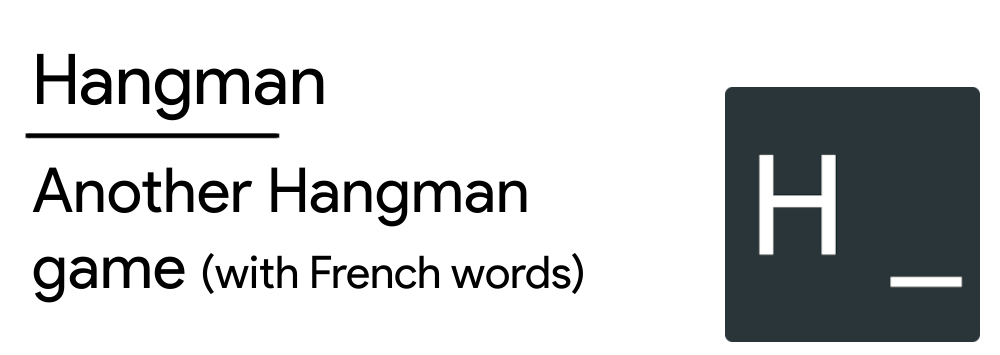
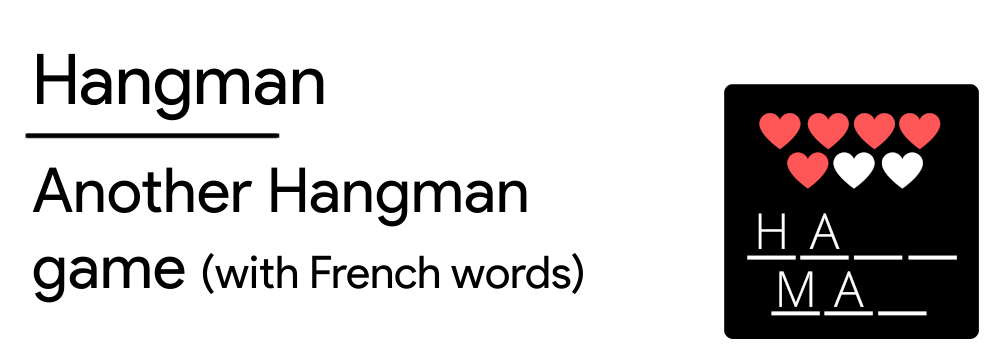
1.1 : see changelog

Changed region(s): [[0.713, 0.2169, 0.992, 0.9606]]

diff --git a/assets/js/main.min.js b/assets/js/main.min.js
@@ -1,1 +1,1 @@
-const WORDS=["AEROPORT","AFFAIRE","ALBUM","ALPHABET","AMENER","AMPOULE","ANCIEN","ANORAK","ANTENNE","APPAREIL","APPORTER","APPUYER","APRES","ARC","ARMOIRE","ARRET","ARRIERE","ARRIVER","ARROSER","ASSIETTE","ASSIS","ATTACHER","ATTENDRE","ATTENTION","ATTERRIR","ATTRAPER","AU","AUTANT","AUTO","AUTOMOBILISTE","AUTORADIO","AUTOUR","AVANCER","AVANT","AVEC","AVION","BAGAGE","BAGUETTE","BAIGNER","BÂILLER","BALLE","BANC","BARBE","BARBOTER","BARQUE","BARRE","BARREAU","BAS","BATEAU","BEAUCOUP","BIBLIOTHEQUE","BLANC","BLEU","BOIS","BOITE","BONDIR","BONNET","BORD","BOSSER","BOTTE","BOUCHER","BOUCHON","BOUDER","BOUGER","BOUSCULER","BOUT","BOUTEILLE","BOUTON","BRAS","BRETELLE","BRICOLAGE","BRUIT","BRUN","BULLES","BUREAU","CABANE","CABINET","CAGOULE","CAHIER","CAISSE","CALME","CAMARADE","CAMESCOPE","CAMION","CANARD","CARNET","CARREAU","CARTABLE","CARTON","CASIER","CASQUE","CASQUETTE","CASSE","CASSER","CASSEROLE","CASSETTE","CATALOGUE","CEDE","CEDEROM","CEINTURE","CERCEAU","CHAINE","CHAISE","CHAISES","CHANSON","CHAPEAU","CHARGER","CHAT","CHAUD","CHAUSSETTE","CHAUSSON","CHAUSSURE","CHEMISE","CHERCHER","CHEVILLE","CHIFFRE","CHOISIR","CHOSE","CHUCHOTER","CHUTE","CIGARETTE","CINQ","CISEAUX","CLASSE","CLAVIER","CLE","CLOU","COIN","COL","COLERE","COLLANT","COLLE","COLLER","COLORIAGE","COLORIER","COMMENCER","COMPARER","COMPTER","CONDUIRE","CONSTRUIRE","CONTE","CONTINUER","CONTRAIRE","CONTRE","COPAIN","COPIER","COQUILLAGE","COQUILLETTE","COQUIN","CORDE","CORPS","COTE","COU","COUCHE","COUDE","COUDRE","COULEUR","COULOIR","COUPER","COURIR","COURONNE","COURT","CRAIE","CRAVATE","CROCHET","CUBE","CUILLERE","CUISSE","CULOTTE","CURIEUX","CUVETTE","DAME","DANGER","DANS","DANSER","DE","DEBORDER","DEBOUT","DECHIRER","DECOLLER","DECORER","DECOUPAGE","DECOUPER","DEDANS","DEFENDRE","DEHORS","DELTAPLANE","DEMANDER","DEMARRER","DEMOLIR","DEPASSER","DERNIER","DERRIERE","DESCENDRE","DESOBEIR","DESSIN","DESSINER","DETRUIRE","DEUX","DEUXIEME","DEVANT","DICTIONNAIRE","DIFFERENCE","DIFFERENT","DIFFICILE","DIRE","DIRECTEUR","DIRECTRICE","DISCUTER","DISPARAITRE","DISTRIBUER","DIX","DOIGT","DOIGTS","DOMINO","DONNER","DORMIR","DOS","DOSSIER","DOUCHE","DOUCHER","DOUX","DROIT","DU","DUR","EAU","ECARTER","ECHANGER","ECHARPE","ECHASSES","ECHELLE","ECLABOUSSER","ECLAIRER","ECOLE","ECOUTER","ECRAN","ECRASER","ECRIRE","ECRITURE","EFFACER","EFFORT","ELASTIQUE","ELECTRICITE","ELEVE","EMMENER","EMPORTER","ENCORE","ENERVE","ENFANT","ENFILER","ENFONCER","ENGIN","ENLEVER","ENTENDRE","ENTONNOIR","ENTOURER","ENTREE","ENTRER","ENVELOPPE","ENVOYER","EPAIS","EPAULE","EPEE","EQUIPE","ESCABEAU","ESCALADER","ESCALIER","ESCARGOT","ESCARPIN","ESSUYER","ETAGERE","ETANG","ETIQUETTE","ETROIT","ETUDE","ETUDIER","EXPLIQUER","EXTERIEUR","FABRIQUER","FACILE","FAIRE","FATIGUE","FAUTE","FAUTEUIL","FEE","FENETRE","FERMER","FESSE","FEU","FEUILLE","FEUTRE","FICELLE","FIL","FILET","FILLE","FILM","FINIR","FLECHE","FLEUR","FLOTTER","FOIS","FONCE","FOND","FOOTBALL","FORT","FOUILLER","FRAPPER","FREIN","FROID","FUSEE","FUSIL","GAGNER","GANT","GARAGE","GARÇON","GARDER","GARDIEN","GARE","GAUCHE","GENER","GENOU","GENTIL","GLISSER","GOLF","GOMME","GONFLER","GOUTER","GOUTTES","GRAND","GRIMPER","GRIS","GRONDER","GROS","GROUPE","GRUE","GYMNASTIQUE","HABIT","HANCHE","HANDICAPE","HAUT","HELICOPTERE","HEXAGONE","HISTOIRE","HORLOGE","HUIT","HUMIDE","IDEE","ILE","IMAGE","IMITER","IMMEUBLE","IMMOBILE","INONDER","INSEPARABLE","INSTRUMENT","INTERESSANT","INTERIEUR","INTRUS","JALOUX","JAMBES","JAUNE","JEAN","JEU","JOLI","JOUER","JOUET","JUPE","LAC","LACER","LACET","LAINE","LAISSER","LARGE","LAVABO","LAVER","LECTURE","LETTRE","LIERRE","LIGNE","LINGE","LIRE","LISSE","LISTE","LIT","LITRE","LIVRE","LOIN","LONG","LUMIERE","LUNETTES","MADAME","MAGAZINE","MAGICIEN","MAGIE","MAGNETOSCOPE","MAILLOT","MAIN","MAINS","MAISON","MAITRE","MAITRESSE","MAL","MALADROIT","MANCHE","MANQUER","MANTEAU","MARCHE","MARIONNETTE","MARTEAU","MATELAS","MATERNELLE","MELANGER","MEME","MENSONGE","MESURER","METAL","METRE","METTRE","MEUBLE","MICRO","MIEUX","MILIEU","MINE","MODELE","MOINS","MONTAGNE","MONTER","MONTRER","MORCEAU","MOT","MOTEUR","MOTO","MOUCHOIR","MOUFLE","MOUILLE","MOUILLER","MOULIN","MOUSSE","MOYEN","MUET","MULTICOLORE","MUR","MUSCLE","MUSIQUE","NAGER","NENUPHAR","NEUF","NŒUD","NOIR","NOM","NOMBRE","NOUVEAU","NU","NUMERO","OBEIR","OBJET","OBLIGER","ONGLE","ORCHESTRE","ORDINATEUR","ORDRE","OURS","OUTIL","OUVRIR","PAGE","PAIRE","PANNE","PANTALON","PAPIER","PARACHUTE","PARCOURS","PAREIL","PARKING","PARLER","PARTAGER","PARTIR","PAS","PASSERELLE","PATAUGER","PEDALO","PEINDRE","PEINTURE","PELUCHE","PENTE","PERCER","PERDRE","PERLE","PERSONNE","PETIT","PEU","PEUR","PHOTO","PIED","PIEDS","PILOTE","PINCEAU","PION","PLACARD","PLAFOND","PLAGE","PLANCHE","PLÂTRE","PLEUVOIR","PLI","PLIAGE","PLIER","PLONGEOIR","PLONGER","PLUIE","PLUS","PNEU","POCHE","POIGNET","POING","POINT","POINTE","POINTU","POISSON","POLI","POMPIERS","PONT","PORTE","PORTEMANTEAU","PORTER","POSER","POSTER","POT","POUBELLE","POUCE","POUSSER","POUVOIR","PREMIER","PRENDRE","PRENOM","PREPARER","PRES","PRESENT","PRESQUE","PRESSER","PRETER","PRINCE","PRISES","PRIVER","PROMETTRE","PROPRE","PUNAISE","PUNIR","PUZZLE","PYJAMA","PYRAMIDE","QUAI","QUATRE","QUESTION","RACONTER","RADIATEUR","RADIO","RAME","RAMPE","RAMPER","RANGER","RATER","RAYURE","RECEVOIR","RECITER","RECOMMENCER","RECREATION","RECULER","REFUSER","REGARDER","REINE","REMETTRE","REMPLACER","REMPLIR","RENTREE","RENTRER","RENVERSER","REPARER","REPETER","REPONDRE","RESPIRER","RESSEMBLER","RESTER","RETARD","REUSSIR","REVENIR","RIDEAU","ROBE","ROBINET","ROI","ROND","ROUE","ROUGE","ROULADE","ROULER","ROUX","RUBAN","RUGUEUX","SAGE","SALADIER","SALE","SALLE","SAUT","SAUTER","SAVON","SCIE","SEAU","SEC","SECHER","SEMELLE","SENS","SENTIR","SEPARER","SEPT","SERIEUX","SERPENT","SERRE","SERRER","SERRURE","SERVIETTE","SERVIR","SEUL","SIEGE","SIESTE","SILENCE","SIX","SOL","SOLDAT","SOLIDE","SOMMEIL","SONNER","SONNETTE","SORCIERE","SORTIE","SORTIR","SOUFFLER","SOULEVER","SOULIGNER","SOUPLE","SOURD","SOURIRE","SOUS","SPAGHETTI","SPORT","STYLO","SUIVANT","SUIVRE","SUR","SURFEUR","TABLE","TABLEAU","TABLIER","TABOURET","TACHE","TAILLE","TAILLER","TALON","TAMBOUR","TAMPON","TAPER","TAPIS","TARD","TASSE","TELECOMMANDE","TELEPHONE","TELEVISION","TENDRE","TENIR","TENNIS","TERMINER","TETE","TIRER","TIROIR","TISSU","TITRE","TOBOGGAN","TOILETTE","TOMBER","TORDU","TOT","TOUCHER","TOUR","TOURNER","TOURNEVIS","TRAIN","TRAIT","TRAMPOLINE","TRANQUILLE","TRANSPARENT","TRANSPIRER","TRANSPORTER","TRAVAIL","TRAVAILLER","TRAVERSER","TREMPER","TRICHER","TRICOT","TRIER","TROIS","TROISIEME","TROMPETTE","TROP","TROUER","TROUS","TROUSSE","TUNNEL","UN","UNIFORME","USE","VACHE","VALISE","VASE","VEHICULE","VENIR","VENTRE","VERRE","VERS","VERSER","VERT","VESTE","VETEMENT","VIDER","VIRAGE","VIS","VITE","VITESSE","VITRE","VOITURE","VOIX","VOLER","VOULOIR","VOYAGE","WAGON","XYLOPHONE","ZERO","ZIGZAG"];let _wordData,_wordString,_wordArray,_error=0,_maxError=7,_errorDisplay="";function startGame(){_wordData=chooseWord(),_wordString=_wordData[0],_wordArray=_wordData[1],get(".buttonList")[0].style.display="none",get("#play").style.display="none",get("#results").classList.add("resultsInGame");for(let E=0;E<_maxError;E++)_errorDisplay+="❤";generateKeyboard(),updateGame(),get("#footer").innerHTML=FOOTER_INGAME}function chooseWord(){let E=rand(0,WORDS.length);for(_wordString=WORDS[E],_wordArray=[],i=0;i<_wordString.length;i++)_wordArray[i]="_";return[_wordString,_wordArray]}function play(E){let R=[];for(i=0;i<_wordString.length;i++)_wordString[i]==E&&R.push(i);if(0!=R.length){for(i=0;i<R.length;i++)_wordArray[R[i]]=E;get("#"+E).style.background=getVariableCSS("correct")}else _error++,_errorDisplay=_errorDisplay.substring(0,_errorDisplay.length-1).trim(),navigator.vibrate("300"),get("#"+E).style.background=getVariableCSS("incorrect");get("#"+E).disabled=!0,updateGame()}function updateGame(){let E="";for(i=0;i<_wordArray.length;i++)E+=_wordArray[i]+" ";get("#guess").innerHTML=E.trim(),get("#results").innerHTML=_errorDisplay,_error==_maxError?(get("#results").style.display="none",get("#guess").innerHTML=CONTENT.lost+_wordString,get("#keyboard").style.display="none",get(".buttonList")[0].style.display="flex",get("#reload").style.display="block"):-1==_wordArray.indexOf("_")&&(get("#results").style.display="none",get("#guess").innerHTML="<p>"+CONTENT.win_part1+_error+CONTENT.win_part2+"</p>",get("#keyboard").style.display="none",get(".buttonList")[0].style.display="flex",get("#reload").style.display="block")}function generateKeyboard(){"ABCDEFGHIJKLMNOPQRSTUVWXYZ".split("").forEach(E=>{const R=document.createElement("button");R.innerHTML=E,R.id=E,R.classList.add("keyboardButton"),R.classList.add("gameButton"),R.addEventListener("click",()=>{play(E)}),get("#keyboard").appendChild(R)})}get("#play").addEventListener("click",startGame),get("#reload").addEventListener("click",()=>{location.reload()});
+const HEALTH_ICON="❤",MAX_ERRORS=7,WORDS=["AEROPORT","AFFAIRE","ALBUM","ALPHABET","AMENER","AMPOULE","ANCIEN","ANORAK","ANTENNE","APPAREIL","APPORTER","APPUYER","APRES","ARC","ARMOIRE","ARRET","ARRIERE","ARRIVER","ARROSER","ASSIETTE","ASSIS","ATTACHER","ATTENDRE","ATTENTION","ATTERRIR","ATTRAPER","AU","AUTANT","AUTO","AUTOMOBILISTE","AUTORADIO","AUTOUR","AVANCER","AVANT","AVEC","AVION","BAGAGE","BAGUETTE","BAIGNER","BÂILLER","BALLE","BANC","BARBE","BARBOTER","BARQUE","BARRE","BARREAU","BAS","BATEAU","BEAUCOUP","BIBLIOTHEQUE","BLANC","BLEU","BOIS","BOITE","BONDIR","BONNET","BORD","BOSSER","BOTTE","BOUCHER","BOUCHON","BOUDER","BOUGER","BOUSCULER","BOUT","BOUTEILLE","BOUTON","BRAS","BRETELLE","BRICOLAGE","BRUIT","BRUN","BULLES","BUREAU","CABANE","CABINET","CAGOULE","CAHIER","CAISSE","CALME","CAMARADE","CAMESCOPE","CAMION","CANARD","CARNET","CARREAU","CARTABLE","CARTON","CASIER","CASQUE","CASQUETTE","CASSE","CASSER","CASSEROLE","CASSETTE","CATALOGUE","CEDE","CEDEROM","CEINTURE","CERCEAU","CHAINE","CHAISE","CHAISES","CHANSON","CHAPEAU","CHARGER","CHAT","CHAUD","CHAUSSETTE","CHAUSSON","CHAUSSURE","CHEMISE","CHERCHER","CHEVILLE","CHIFFRE","CHOISIR","CHOSE","CHUCHOTER","CHUTE","CIGARETTE","CINQ","CISEAUX","CLASSE","CLAVIER","CLE","CLOU","COIN","COL","COLERE","COLLANT","COLLE","COLLER","COLORIAGE","COLORIER","COMMENCER","COMPARER","COMPTER","CONDUIRE","CONSTRUIRE","CONTE","CONTINUER","CONTRAIRE","CONTRE","COPAIN","COPIER","COQUILLAGE","COQUILLETTE","COQUIN","CORDE","CORPS","COTE","COU","COUCHE","COUDE","COUDRE","COULEUR","COULOIR","COUPER","COURIR","COURONNE","COURT","CRAIE","CRAVATE","CROCHET","CUBE","CUILLERE","CUISSE","CULOTTE","CURIEUX","CUVETTE","DAME","DANGER","DANS","DANSER","DE","DEBORDER","DEBOUT","DECHIRER","DECOLLER","DECORER","DECOUPAGE","DECOUPER","DEDANS","DEFENDRE","DEHORS","DELTAPLANE","DEMANDER","DEMARRER","DEMOLIR","DEPASSER","DERNIER","DERRIERE","DESCENDRE","DESOBEIR","DESSIN","DESSINER","DETRUIRE","DEUX","DEUXIEME","DEVANT","DICTIONNAIRE","DIFFERENCE","DIFFERENT","DIFFICILE","DIRE","DIRECTEUR","DIRECTRICE","DISCUTER","DISPARAITRE","DISTRIBUER","DIX","DOIGT","DOIGTS","DOMINO","DONNER","DORMIR","DOS","DOSSIER","DOUCHE","DOUCHER","DOUX","DROIT","DU","DUR","EAU","ECARTER","ECHANGER","ECHARPE","ECHASSES","ECHELLE","ECLABOUSSER","ECLAIRER","ECOLE","ECOUTER","ECRAN","ECRASER","ECRIRE","ECRITURE","EFFACER","EFFORT","ELASTIQUE","ELECTRICITE","ELEVE","EMMENER","EMPORTER","ENCORE","ENERVE","ENFANT","ENFILER","ENFONCER","ENGIN","ENLEVER","ENTENDRE","ENTONNOIR","ENTOURER","ENTREE","ENTRER","ENVELOPPE","ENVOYER","EPAIS","EPAULE","EPEE","EQUIPE","ESCABEAU","ESCALADER","ESCALIER","ESCARGOT","ESCARPIN","ESSUYER","ETAGERE","ETANG","ETIQUETTE","ETROIT","ETUDE","ETUDIER","EXPLIQUER","EXTERIEUR","FABRIQUER","FACILE","FAIRE","FATIGUE","FAUTE","FAUTEUIL","FEE","FENETRE","FERMER","FESSE","FEU","FEUILLE","FEUTRE","FICELLE","FIL","FILET","FILLE","FILM","FINIR","FLECHE","FLEUR","FLOTTER","FOIS","FONCE","FOND","FOOTBALL","FORT","FOUILLER","FRAPPER","FREIN","FROID","FUSEE","FUSIL","GAGNER","GANT","GARAGE","GARÇON","GARDER","GARDIEN","GARE","GAUCHE","GENER","GENOU","GENTIL","GLISSER","GOLF","GOMME","GONFLER","GOUTER","GOUTTES","GRAND","GRIMPER","GRIS","GRONDER","GROS","GROUPE","GRUE","GYMNASTIQUE","HABIT","HANCHE","HANDICAPE","HAUT","HELICOPTERE","HEXAGONE","HISTOIRE","HORLOGE","HUIT","HUMIDE","IDEE","ILE","IMAGE","IMITER","IMMEUBLE","IMMOBILE","INONDER","INSEPARABLE","INSTRUMENT","INTERESSANT","INTERIEUR","INTRUS","JALOUX","JAMBES","JAUNE","JEAN","JEU","JOLI","JOUER","JOUET","JUPE","LAC","LACER","LACET","LAINE","LAISSER","LARGE","LAVABO","LAVER","LECTURE","LETTRE","LIERRE","LIGNE","LINGE","LIRE","LISSE","LISTE","LIT","LITRE","LIVRE","LOIN","LONG","LUMIERE","LUNETTES","MADAME","MAGAZINE","MAGICIEN","MAGIE","MAGNETOSCOPE","MAILLOT","MAIN","MAINS","MAISON","MAITRE","MAITRESSE","MAL","MALADROIT","MANCHE","MANQUER","MANTEAU","MARCHE","MARIONNETTE","MARTEAU","MATELAS","MATERNELLE","MELANGER","MEME","MENSONGE","MESURER","METAL","METRE","METTRE","MEUBLE","MICRO","MIEUX","MILIEU","MINE","MODELE","MOINS","MONTAGNE","MONTER","MONTRER","MORCEAU","MOT","MOTEUR","MOTO","MOUCHOIR","MOUFLE","MOUILLE","MOUILLER","MOULIN","MOUSSE","MOYEN","MUET","MULTICOLORE","MUR","MUSCLE","MUSIQUE","NAGER","NENUPHAR","NEUF","NŒUD","NOIR","NOM","NOMBRE","NOUVEAU","NU","NUMERO","OBEIR","OBJET","OBLIGER","ONGLE","ORCHESTRE","ORDINATEUR","ORDRE","OURS","OUTIL","OUVRIR","PAGE","PAIRE","PANNE","PANTALON","PAPIER","PARACHUTE","PARCOURS","PAREIL","PARKING","PARLER","PARTAGER","PARTIR","PAS","PASSERELLE","PATAUGER","PEDALO","PEINDRE","PEINTURE","PELUCHE","PENTE","PERCER","PERDRE","PERLE","PERSONNE","PETIT","PEU","PEUR","PHOTO","PIED","PIEDS","PILOTE","PINCEAU","PION","PLACARD","PLAFOND","PLAGE","PLANCHE","PLÂTRE","PLEUVOIR","PLI","PLIAGE","PLIER","PLONGEOIR","PLONGER","PLUIE","PLUS","PNEU","POCHE","POIGNET","POING","POINT","POINTE","POINTU","POISSON","POLI","POMPIERS","PONT","PORTE","PORTEMANTEAU","PORTER","POSER","POSTER","POT","POUBELLE","POUCE","POUSSER","POUVOIR","PREMIER","PRENDRE","PRENOM","PREPARER","PRES","PRESENT","PRESQUE","PRESSER","PRETER","PRINCE","PRISES","PRIVER","PROMETTRE","PROPRE","PUNAISE","PUNIR","PUZZLE","PYJAMA","PYRAMIDE","QUAI","QUATRE","QUESTION","RACONTER","RADIATEUR","RADIO","RAME","RAMPE","RAMPER","RANGER","RATER","RAYURE","RECEVOIR","RECITER","RECOMMENCER","RECREATION","RECULER","REFUSER","REGARDER","REINE","REMETTRE","REMPLACER","REMPLIR","RENTREE","RENTRER","RENVERSER","REPARER","REPETER","REPONDRE","RESPIRER","RESSEMBLER","RESTER","RETARD","REUSSIR","REVENIR","RIDEAU","ROBE","ROBINET","ROI","ROND","ROUE","ROUGE","ROULADE","ROULER","ROUX","RUBAN","RUGUEUX","SAGE","SALADIER","SALE","SALLE","SAUT","SAUTER","SAVON","SCIE","SEAU","SEC","SECHER","SEMELLE","SENS","SENTIR","SEPARER","SEPT","SERIEUX","SERPENT","SERRE","SERRER","SERRURE","SERVIETTE","SERVIR","SEUL","SIEGE","SIESTE","SILENCE","SIX","SOL","SOLDAT","SOLIDE","SOMMEIL","SONNER","SONNETTE","SORCIERE","SORTIE","SORTIR","SOUFFLER","SOULEVER","SOULIGNER","SOUPLE","SOURD","SOURIRE","SOUS","SPAGHETTI","SPORT","STYLO","SUIVANT","SUIVRE","SUR","SURFEUR","TABLE","TABLEAU","TABLIER","TABOURET","TACHE","TAILLE","TAILLER","TALON","TAMBOUR","TAMPON","TAPER","TAPIS","TARD","TASSE","TELECOMMANDE","TELEPHONE","TELEVISION","TENDRE","TENIR","TENNIS","TERMINER","TETE","TIRER","TIROIR","TISSU","TITRE","TOBOGGAN","TOILETTE","TOMBER","TORDU","TOT","TOUCHER","TOUR","TOURNER","TOURNEVIS","TRAIN","TRAIT","TRAMPOLINE","TRANQUILLE","TRANSPARENT","TRANSPIRER","TRANSPORTER","TRAVAIL","TRAVAILLER","TRAVERSER","TREMPER","TRICHER","TRICOT","TRIER","TROIS","TROISIEME","TROMPETTE","TROP","TROUER","TROUS","TROUSSE","TUNNEL","UN","UNIFORME","USE","VACHE","VALISE","VASE","VEHICULE","VENIR","VENTRE","VERRE","VERS","VERSER","VERT","VESTE","VETEMENT","VIDER","VIRAGE","VIS","VITE","VITESSE","VITRE","VOITURE","VOIX","VOLER","VOULOIR","VOYAGE","WAGON","XYLOPHONE","ZERO","ZIGZAG"];let _wordData,_wordString,_wordArray,_error=0,_errorDisplay="";function startGame(){_wordData=chooseWord(),_wordString=_wordData[0],_wordArray=_wordData[1],get(".buttonList")[0].style.display="none",get("#play").style.display="none";for(let E=0;E<MAX_ERRORS;E++)_errorDisplay+=HEALTH_ICON;get("#titleScreen").style.display="none",get("#board").style.display="flex",get("#footer").innerHTML=FOOTER_INGAME,generateKeyboard(),updateGame()}function chooseWord(){let E=rand(0,WORDS.length);for(_wordString=WORDS[E],_wordArray=[],i=0;i<_wordString.length;i++)_wordArray[i]="_";return[_wordString,_wordArray]}function play(E){let R=[];for(i=0;i<_wordString.length;i++)_wordString[i]==E&&R.push(i);if(0!=R.length){for(i=0;i<R.length;i++)_wordArray[R[i]]=E;get("#"+E).style.background=getVariableCSS("correct")}else _error++,_errorDisplay=_errorDisplay.substring(0,_errorDisplay.length-1).trim(),get("#"+E).style.background=getVariableCSS("incorrect");get("#"+E).disabled=!0,updateGame()}function updateGame(){let E="";for(i=0;i<_wordArray.length;i++)E+=_wordArray[i]+" ";get("#wordToGuess").innerHTML=E.trim(),get("#healthbar").innerHTML=_errorDisplay,_error===MAX_ERRORS?endGame("lose"):-1==_wordArray.indexOf("_")&&endGame("win")}function endGame(E){get("#board").style.display="none",get(".buttonList")[0].style.display="flex",get("#reload").style.display="block",get("#gameOver").style.display="flex","lose"===E&&(get("#gameOver").innerHTML="<p>"+CONTENT.lost+_wordString+"</p>"),"win"===E&&(get("#gameOver").innerHTML="<p>"+CONTENT.win_part1+_error+CONTENT.win_part2+"</p>")}function generateKeyboard(){"ABCDEFGHIJKLMNOPQRSTUVWXYZ".split("").forEach(E=>{const R=document.createElement("button");R.innerHTML=E,R.id=E,R.classList.add("keyboardButton"),R.classList.add("gameButton"),R.addEventListener("click",()=>{play(E)}),get("#keyboard").appendChild(R)})}get("#play").addEventListener("click",startGame),get("#reload").addEventListener("click",()=>{location.reload()});

diff --git a/assets/js/main.js b/assets/js/main.js
@@ -1,6 +1,8 @@
 // =================================================
 // ============ SETTINGS 
 
+const HEALTH_ICON = "❤";
+const MAX_ERRORS = 7;
 const WORDS = [
     "AEROPORT", "AFFAIRE", "ALBUM", "ALPHABET", "AMENER", "AMPOULE", "ANCIEN", "ANORAK", "ANTENNE", "APPAREIL", "APPORTER", "APPUYER", "APRES", "ARC", "ARMOIRE", "ARRET", "ARRIERE", "ARRIVER", "ARROSER", "ASSIETTE", "ASSIS", "ATTACHER", "ATTENDRE", "ATTENTION", "ATTERRIR", "ATTRAPER", "AU", "AUTANT", "AUTO", "AUTOMOBILISTE", "AUTORADIO", "AUTOUR", "AVANCER", "AVANT", "AVEC", "AVION", 
     "BAGAGE", "BAGUETTE", "BAIGNER", "BÂILLER", "BALLE", "BANC", "BARBE", "BARBOTER", "BARQUE", "BARRE", "BARREAU", "BAS", "BATEAU", "BEAUCOUP", "BIBLIOTHEQUE", "BLANC", "BLEU", "BOIS", "BOITE", "BONDIR", "BONNET", "BORD", "BOSSER", "BOTTE", "BOUCHER", "BOUCHON", "BOUDER", "BOUGER", "BOUSCULER", "BOUT", "BOUTEILLE", "BOUTON", "BRAS", "BRETELLE", "BRICOLAGE", "BRUIT", "BRUN", "BULLES", "BUREAU", 
@@ -26,7 +28,10 @@ const WORDS = [
     "WAGON",
     "XYLOPHONE", 
     "ZERO", "ZIGZAG"];
-let _error = 0, _maxError = 7,  _errorDisplay = "", _wordData, _wordString, _wordArray;
+
+let _error = 0,
+    _errorDisplay = "",
+    _wordData, _wordString, _wordArray;
 
 // =================================================
 // ============ MAIN 
@@ -53,15 +58,18 @@ get("#reload").addEventListener("click", () => { location.reload(); });
     get("#play").style.display = "none";
 
     // Generate the "health bar"
-    get("#results").classList.add("resultsInGame");
-    for (let i = 0; i < _maxError; i++) {
-        _errorDisplay += "❤";
+    for (let i = 0; i < MAX_ERRORS; i++) {
+        _errorDisplay += HEALTH_ICON;
     }
 
     // Display the board
+    get("#titleScreen").style.display = "none";
+    get("#board").style.display = "flex";
+    get("#footer").innerHTML = FOOTER_INGAME;
+
+    // Generate keyboard and game
     generateKeyboard();
     updateGame();
-    get("#footer").innerHTML = FOOTER_INGAME;
 }
 
 /**
@@ -71,8 +79,8 @@ get("#reload").addEventListener("click", () => { location.reload(); });
 
  function chooseWord() {
     // Choose randomly a word
-    let nb = rand(0, WORDS.length);
-    _wordString = WORDS[nb];
+    let random = rand(0, WORDS.length);
+    _wordString = WORDS[random];
 
     // Transform the word as string in an array of underscore
     _wordArray = [];
@@ -109,7 +117,6 @@ function play(letterChoosen) {
     else {
         _error++;
         _errorDisplay = (_errorDisplay.substring(0, _errorDisplay.length - 1)).trim();
-        navigator.vibrate('300');
         get("#" + letterChoosen).style.background = getVariableCSS("incorrect");
     }
 
@@ -119,7 +126,7 @@ function play(letterChoosen) {
 }
 
 /**
- * Each turn update the board and check the win or the loss
+ * Each turn update the board and check the state of the game
  **/
 
 function updateGame() {
@@ -130,28 +137,39 @@ function updateGame() {
     }
 
     // Update the display
-    get('#guess').innerHTML = wordAsUnderscore.trim();
-    get('#results').innerHTML = _errorDisplay;
+    get('#wordToGuess').innerHTML = wordAsUnderscore.trim();
+    get('#healthbar').innerHTML = _errorDisplay;
 
     // Lose
-    if (_error == _maxError) {
-        get('#results').style.display = "none";
-        get('#guess').innerHTML = CONTENT.lost + _wordString;
-        get('#keyboard').style.display = "none";
-        get(".buttonList")[0].style.display = "flex";
-        get('#reload').style.display = "block";
+    if (_error === MAX_ERRORS) {
+        endGame("lose");
     }
 
     // Win
     else if (_wordArray.indexOf("_") == -1) {
-        get('#results').style.display = "none";
-        get('#guess').innerHTML = "<p>" + CONTENT.win_part1 + _error + CONTENT.win_part2 + "</p>";
-        get('#keyboard').style.display = "none";
-        get(".buttonList")[0].style.display = "flex";
-        get('#reload').style.display = "block";
+        endGame("win");
     }
 }
 
+/**
+ * Display the game over screen
+ * @param {string} mode win or lose
+ **/
+
+function endGame(mode) {
+    get('#board').style.display = "none";
+    get(".buttonList")[0].style.display = "flex";
+    get('#reload').style.display = "block";
+    get("#gameOver").style.display = "flex";
+
+    if (mode === "lose") {
+        get('#gameOver').innerHTML = "<p>" + CONTENT.lost + _wordString + "</p>";
+    }
+
+    if (mode === "win") {
+        get('#gameOver').innerHTML = "<p>" + CONTENT.win_part1 + _error + CONTENT.win_part2 + "</p>";
+    }
+}
 
 /**
  * Generate and display a virtual keyboard

diff --git a/assets/css/main.min.css b/assets/css/main.min.css
@@ -1,1 +1,1 @@
-:root{--background:#2d3142;--text:#ffffff;--footer-link:#ef8354;--button-1:#4f5d75;--button-2:#ffffff;--correct:#90ee90;--incorrect:#ef8354;--results:#4f5d75;--resultsInGame:#ef8354;--guessEndGame:#4f5d75}body,html{margin:0;padding:0;font-family:sans-serif;font-size:1em;color:var(--text);background-color:var(--background)}#app{display:flex;flex-direction:column;min-height:100vh}@media(max-width:1024px){a:active,a:focus{outline:0!important}#app{flex-direction:column;justify-content:flex-start}}header{display:flex;align-items:center;justify-content:center;padding:4vh;font-size:3em;color:var(--text)}#footer{font-family:sans-serif;padding:2vh;text-align:center;font-size:.9em;line-height:1.6em}#footer a{text-decoration:none;color:var(--footer-link);cursor:pointer}@media(max-width:1024px){header{font-size:2.1em}}.buttonList{display:flex;justify-content:center;padding:2vh 0}button{min-width:15vw;margin:0 2vh;padding:2vh;border:2px solid transparent;border-radius:10px;text-transform:uppercase;font-size:1.5em;font-family:inherit;background-color:var(--button-1);color:var(--button-2)}button:hover{background-color:var(--button-2);color:var(--button-1)}#reload{display:none}#board{display:flex;flex-direction:column;flex-grow:1;justify-content:center;margin:5vh 0}#results{padding:4vh;text-align:center;font-size:2em;background-color:var(--results)}.resultsInGame{letter-spacing:8px;color:var(--resultsInGame)}#guess{margin:auto;font-size:2.5em;text-align:center}.guessEndGame{background-color:var(--guessEndGame)}#keyboard{width:50vw;margin:0 auto;text-align:center}.keyboardButton{min-width:unset;width:3.5vw;margin:1.5vh;border-radius:0;font-size:1em;cursor:pointer;border-radius:50%}.keyboardButton:disabled{opacity:.5;cursor:not-allowed}@media(max-width:1024px){#results{margin-top:5vh;font-size:1.2em}#guess{text-align:center;font-size:2em}#keyboard{display:flex;flex-wrap:wrap;justify-content:center;width:unset}.keyboardButton{width:10vw;margin:.75vh;padding:1vh;font-size:1em}}
+:root{--background:#2d3142;--text:#ffffff;--footer-link:#ef8354;--button-1:#4f5d75;--button-2:#ffffff;--correct:#90ee90;--incorrect:#ef8354;--healthbarBackground:#4f5d75;--healthbarColor:#ef8354}body,html{margin:0;padding:0;font-family:sans-serif;font-size:1em;color:var(--text);background-color:var(--background)}#app{display:flex;flex-direction:column;min-height:100vh}@media(max-width:1024px){a:active,a:focus{outline:0!important}#app{flex-direction:column;justify-content:flex-start}}header{display:flex;align-items:center;justify-content:center;padding:2vh;text-transform:uppercase;font-size:3em}#footer{padding:2vh;text-align:center;font-family:sans-serif;font-size:.9em;line-height:1.6em}#footer a{text-decoration:none;color:var(--footer-link);cursor:pointer}@media(max-width:1024px){header{font-size:2.1em}}.buttonList{display:flex;justify-content:center;padding:2vh 0}button{margin:0 2vw;padding:2vh;min-width:20vw;border:2px solid transparent;border-radius:10px;text-transform:uppercase;font-family:inherit;font-size:1.5em;font-weight:bolder;background-color:var(--button-1);color:var(--button-2)}button:hover{background-color:var(--button-2);color:var(--button-1)}#reload{display:none}@media (max-width:1024px){button{min-width:50vw}}#board,#gameOver,#titleScreen{display:flex;flex-direction:column;flex-grow:1;justify-content:center;user-select:none}#board,#gameOver{display:none}#gameOver,#titleScreen{padding:0 25vw;text-align:justify;font-size:1.35em;text-align-last:center}#healthbar{padding:4vh;text-align:center;font-size:2em;background-color:var(--healthbarBackground);letter-spacing:8px;color:var(--healthbarColor)}#wordToGuess{margin:auto;text-align:center;font-size:2.5em}#keyboard{width:50vw;margin:0 auto;text-align:center}.keyboardButton{width:3.5vw;margin:1.5vh;min-width:unset;border-radius:0;border-radius:50%;font-size:1em;cursor:pointer}.keyboardButton:disabled{opacity:.5;cursor:not-allowed}@media (max-width:1024px){#gameOver,#titleScreen{padding:0 5vw;font-size:1.25em}#gameOver{font-size:1.8em}#healthbar{margin-top:5vh;font-size:1.2em}#wordToGuess{text-align:center;font-size:2em}#keyboard{display:flex;flex-wrap:wrap;justify-content:center;width:unset}.keyboardButton{width:10vw;margin:.75vh;padding:1vh;font-size:1em}}

diff --git a/assets/js/core.min.js b/assets/js/core.min.js
@@ -1,1 +1,1 @@
-const VERSION="1.0",GITHUB='<a target="_blank" href="https://github.com/n-deleforge/hangman">GitHub</a>',FOOTER="V. 1.0 | © 2020-22 | "+GITHUB+' | <a id="switchLanguage"></a>',FOOTER_INGAME="V. 1.0 | © 2020-22 | "+GITHUB,COOKIE_LANG="GAMZ-language",FRENCH={footer:FOOTER,hangman:"Le jeu du pendu",title:"Le jeu du pendu",play:"Jouer",reload:"Recommencer",lastTry:"Plus qu'un essai !",try:" essais restants",lost:"Perdu !<br />Le mot à trouver était : ",win_part1:"Bien joué !<br />Vous avez fait ",win_part2:" erreurs.",switchLanguage:"English",results:"Les mots à deviner sont des mots français !"},ENGLISH={footer:FOOTER,hangman:"Hangman",title:"Hangman",play:"Play",reload:"Restart",lastTry:"One try left !",try:" tries left",lost:"Lost !<br />The word to find was : ",win_part1:"Good game !<br />You did ",win_part2:" errors.",switchLanguage:"French",results:"Words to guess are French words !"};getCookie(COOKIE_LANG)||setCookie(COOKIE_LANG,"EN");const CONTENT="FR"==getCookie(COOKIE_LANG)?FRENCH:ENGLISH;Object.keys(CONTENT).forEach(e=>{get("#"+e)&&(get("#"+e).innerHTML=CONTENT[e])}),get("#switchLanguage")&&get("#switchLanguage").addEventListener("click",()=>{"FR"==getCookie(COOKIE_LANG)?setCookie(COOKIE_LANG,"EN"):setCookie(COOKIE_LANG,"FR"),location.reload()});
+const VERSION="1.1",GITHUB='<a target="_blank" href="https://github.com/n-deleforge/hangman">GitHub</a>',FOOTER="V. 1.0 | © 2020-22 | "+GITHUB+' | <a id="switchLanguage"></a>',FOOTER_INGAME="V. 1.0 | © 2020-22 | "+GITHUB,COOKIE_LANG="GAMZ-language",FRENCH={footer:FOOTER,hangman:"Le jeu du pendu",title:"Le jeu du pendu",play:"Jouer",reload:"Recommencer",lastTry:"Plus qu'un essai !",try:" essais restants",lost:"Perdu !<br />Le mot à trouver était : ",win_part1:"Bien joué !<br />Vous avez fait ",win_part2:" erreurs.",switchLanguage:"English",titleScreen:"<p>Le jeu du pendu est un jeu où il faut deviner un mot choisi aléaoirement dans une liste. Tous les mots sont des mots français.</p>\n                          <p>Pour deviner le bon mot, il faut choisir une à une l'une des 26 lettres de l'alphabet. Au bout de 7 essais incorrect, la partie est perdue.</p>"},ENGLISH={footer:FOOTER,hangman:"Hangman",title:"Hangman",play:"Play",reload:"Restart",lastTry:"One try left !",try:" tries left",lost:"Lost !<br />The word to find was : ",win_part1:"Good game !<br />You did ",win_part2:" errors.",switchLanguage:"French",titleScreen:"<p>The Hangman is a game where you have to guess a word randomly chosen from a list. All the words are French words.</p>\n                         <p>To guess the correct word, you must choose one by one one one of the 26 letters of the alphabet. After 7 incorrect attempts, the game is lost.</p>"};getCookie(COOKIE_LANG)||setCookie(COOKIE_LANG,"EN");const CONTENT="FR"==getCookie(COOKIE_LANG)?FRENCH:ENGLISH;Object.keys(CONTENT).forEach(e=>{get("#"+e)&&(get("#"+e).innerHTML=CONTENT[e])}),get("#switchLanguage")&&get("#switchLanguage").addEventListener("click",()=>{"FR"==getCookie(COOKIE_LANG)?setCookie(COOKIE_LANG,"EN"):setCookie(COOKIE_LANG,"FR"),location.reload()});

diff --git a/assets/css/main.css b/assets/css/main.css
@@ -9,9 +9,8 @@
     --button-2: #ffffff;
     --correct: #90ee90;
     --incorrect: #ef8354;
-    --results: #4f5d75;
-    --resultsInGame: #ef8354;
-    --guessEndGame: #4f5d75;
+    --healthbarBackground: #4f5d75;
+    --healthbarColor: #ef8354;
 }
 
 /* ======================================== */
@@ -52,15 +51,15 @@ header {
     display: flex;
     align-items: center;
     justify-content: center;
-    padding: 4vh;
+    padding: 2vh;
+    text-transform: uppercase;
     font-size: 3em;
-    color: var(--text);
 }
 
 #footer {
-    font-family: sans-serif;
     padding: 2vh;
     text-align: center;
+    font-family: sans-serif;
     font-size: 0.9em;
     line-height: 1.6em;
 }
@@ -87,14 +86,15 @@ header {
 }
 
 button {
-    min-width: 15vw;
-    margin: 0 2vh;
+    margin: 0 2vw;
     padding: 2vh;
+    min-width: 20vw;
     border: 2px solid transparent;
     border-radius: 10px;
     text-transform: uppercase;
-    font-size: 1.5em;
     font-family: inherit;
+    font-size: 1.5em;
+    font-weight: bolder;
     background-color: var(--button-1);
     color: var(--button-2)
 }
@@ -108,37 +108,51 @@ button:hover {
     display: none;
 }
 
+@media (max-width:1024px) {
+    button {
+        min-width: 50vw;
+    }
+}
+
 /* ======================================== */
 /* ======== GAME */
 
+#titleScreen,
+#gameOver,
 #board {
     display: flex;
     flex-direction: column;
     flex-grow: 1;
     justify-content: center;
-    margin: 5vh 0;
+    user-select: none;
 }
 
-#results {
+#board,
+#gameOver {
+    display: none;
+}
+
+#titleScreen,
+#gameOver {
+    padding: 0 25vw;
+    text-align: justify;
+    font-size: 1.35em;
+    text-align-last: center;
+}
+
+#healthbar {
     padding: 4vh;
     text-align: center;
     font-size: 2em;
-    background-color: var(--results);
-}
-
-.resultsInGame {
+    background-color: var(--healthbarBackground);
     letter-spacing: 8px;
-    color: var(--resultsInGame);
+    color: var(--healthbarColor);
 }
 
-#guess {
+#wordToGuess {
     margin: auto;
-    font-size: 2.5em;
     text-align: center;
-}
-
-.guessEndGame {
-    background-color: var(--guessEndGame);
+    font-size: 2.5em;
 }
 
 #keyboard {
@@ -148,13 +162,13 @@ button:hover {
 }
 
 .keyboardButton {
-    min-width: unset;
     width: 3.5vw;
     margin: 1.5vh;
+    min-width: unset;
     border-radius: 0;
+    border-radius: 50%;
     font-size: 1em;
     cursor: pointer;
-    border-radius: 50%;
 }
 
 .keyboardButton:disabled {
@@ -162,13 +176,23 @@ button:hover {
     cursor: not-allowed;
 }
 
-@media(max-width:1024px) {
-    #results {
+@media (max-width:1024px) {
+    #titleScreen,
+    #gameOver {
+        padding: 0 5vw;
+        font-size: 1.25em;
+    }
+
+    #gameOver {
+        font-size: 1.8em;
+    }
+
+    #healthbar {
         margin-top: 5vh;
         font-size: 1.2em;
     }
 
-    #guess {
+    #wordToGuess {
         text-align: center;
         font-size: 2em;
     }

diff --git a/assets/js/core.js b/assets/js/core.js
@@ -1,7 +1,7 @@
 // =================================================
 // ============ CORE VARIABLES
 
-const VERSION = "1.0";
+const VERSION = "1.1";
 const GITHUB = "<a target=\"_blank\" href=\"https://github.com/n-deleforge/hangman\">GitHub</a>";
 const FOOTER = "V. " + VERSION + " | © 2020-22 | " + GITHUB + " | <a id=\"switchLanguage\"></a>";
 const FOOTER_INGAME = "V. " + VERSION + " | © 2020-22 | " + GITHUB;
@@ -18,7 +18,8 @@ const FRENCH = {
     'win_part1': "Bien joué !<br />Vous avez fait ",
     'win_part2': " erreurs.",
     'switchLanguage' : "English",
-    'results' : "Les mots à deviner sont des mots français !"
+    'titleScreen': `<p>Le jeu du pendu est un jeu où il faut deviner un mot choisi aléaoirement dans une liste. Tous les mots sont des mots français.</p>
+                          <p>Pour deviner le bon mot, il faut choisir une à une l'une des 26 lettres de l'alphabet. Au bout de 7 essais incorrect, la partie est perdue.</p>`,
 };
 
 const ENGLISH = {
@@ -32,7 +33,8 @@ const ENGLISH = {
     'win_part1' : "Good game !<br />You did ",
     "win_part2" : " errors.",
     'switchLanguage' : "French",
-    'results' : "Words to guess are French words !"
+    'titleScreen': `<p>The Hangman is a game where you have to guess a word randomly chosen from a list. All the words are French words.</p>
+                         <p>To guess the correct word, you must choose one by one one one of the 26 letters of the alphabet. After 7 incorrect attempts, the game is lost.</p>`,
 }
 
 // =================================================

diff --git a/index.html b/index.html
@@ -15,12 +15,14 @@
 
 <body>
     <div id="app">
-        <p id="dump"></p>
         <header id="hangman"></header>
+        
+        <div id="titleScreen"></div>
+        <div id="gameOver"></div>
 
         <div id="board">
-            <div id="results"></div>
-            <div id="guess"></div>
+            <div id="healthbar"></div>
+            <div id="wordToGuess"></div>
             <div id="keyboard"></div>
         </div>
 

diff --git a/README.md b/README.md
@@ -26,4 +26,5 @@ If you want to selfhost **Hangman** :
 
 # Changelog
 
+- 1.1 : modification of the application structure and a bit of CSS + JS rewriting. New icon / favicon.
 - 1.0 : Initial release.
